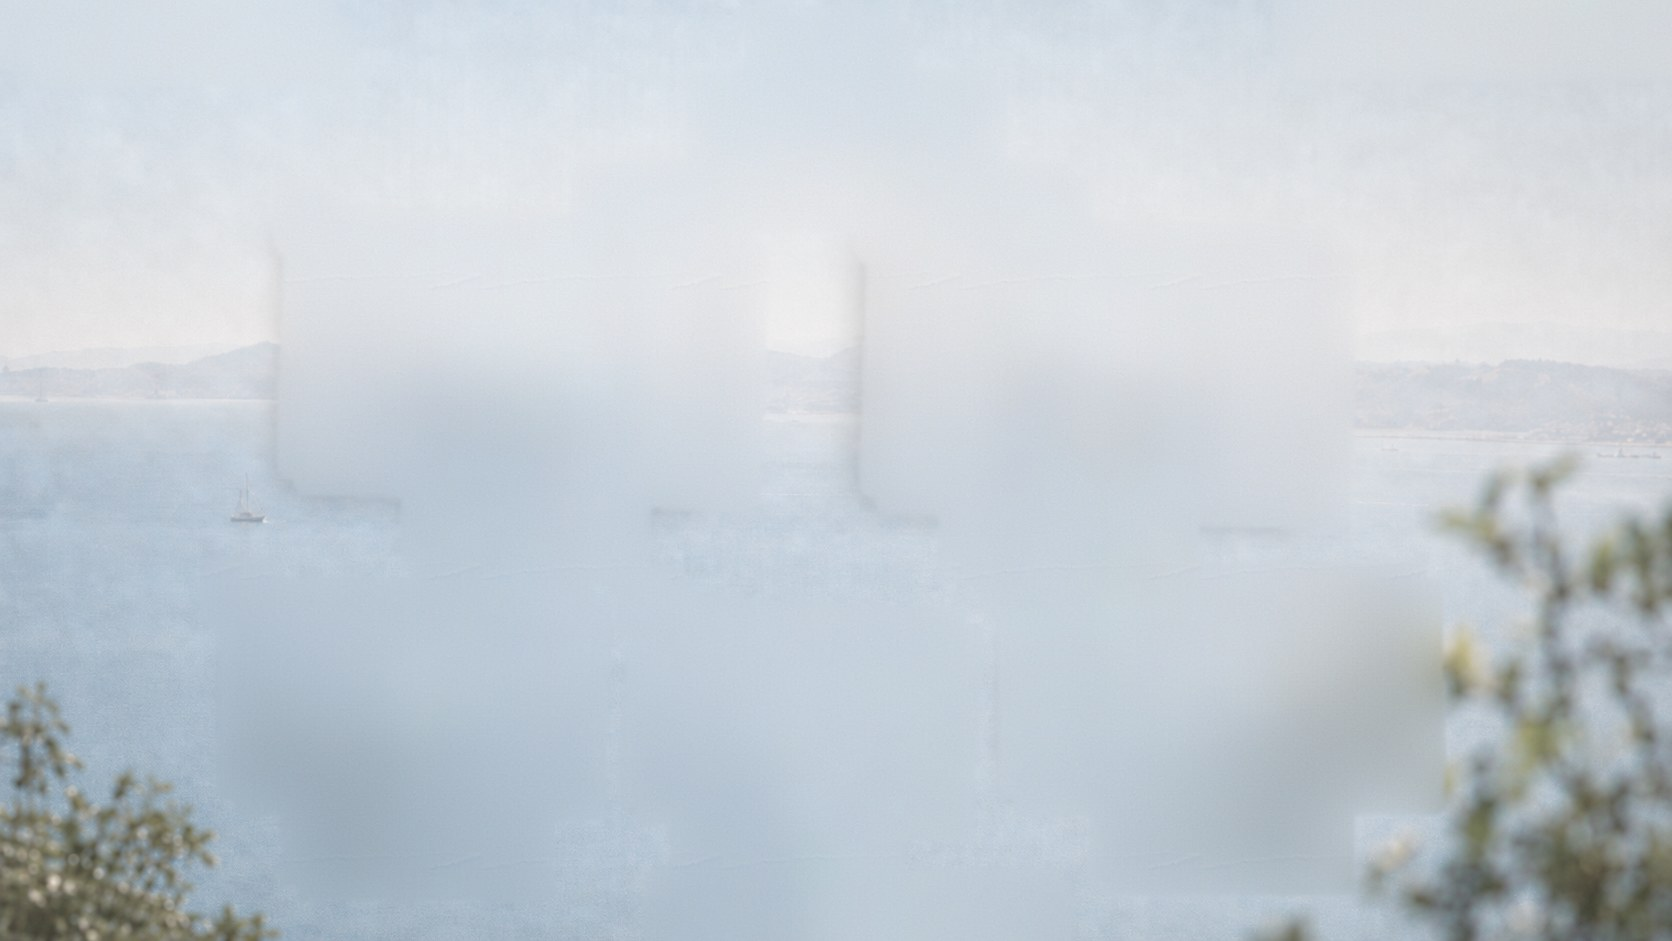
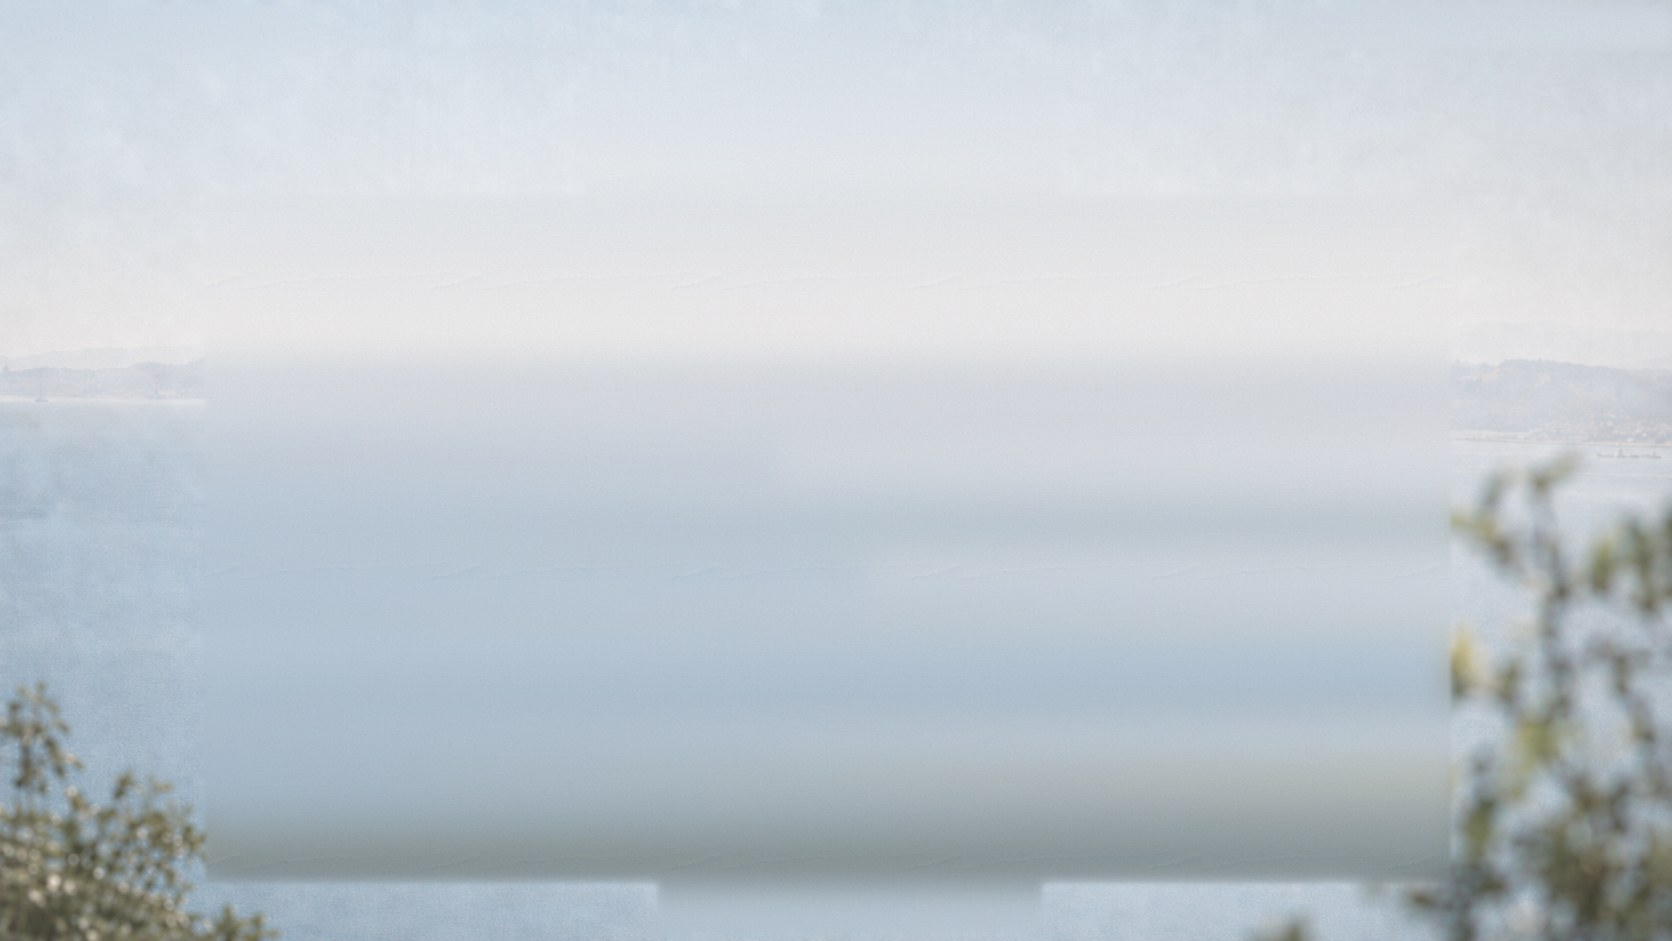
Erase the baked card glow entirely; cards carry only a slight shadow
Per-card erasing left stripes of the reference's original glow between
the inpainted zones, reading as translucent borders around every card.
The plate now clears one continuous band across the whole card field
and refills it row by row from the true scene edges (foliage guarded
so it can't bleed into the bay), with the page's own grain on top —
one uniform haze, no patchwork. Card and label shadows lightened to a
subtle lift.

Claude-Session: https://claude.ai/code/session_01HwHnB6ZvdvjAvLg4jAqUHh

Changed region(s): [[0.1244, 0.8013, 0.8708, 0.9554], [0.8397, 0.678, 0.8708, 0.7396], [0.6842, 0.7088, 0.7464, 0.7396]]

diff --git a/index.html b/index.html
@@ -151,7 +151,7 @@ nav,nav a,nav .mono img{transition:color .35s ease,filter .35s ease}
   transform-origin:center center;z-index:1}
 .wk{position:absolute}
 .wk>img{width:100%;height:100%;display:block}
-.wk-card img{filter:drop-shadow(0 10px 18px rgba(50,60,80,.32))}
+.wk-card img{filter:drop-shadow(0 6px 12px rgba(50,60,80,.25))}
 .wk-card a,.wk-label a{position:absolute;inset:0;display:block;color:inherit;text-decoration:none}
 @media (prefers-reduced-motion:no-preference){
   .wk-card a,.wk-label a{transition:transform .3s cubic-bezier(.3,.8,.3,1)}
@@ -159,7 +159,7 @@ nav,nav a,nav .mono img{transition:color .35s ease,filter .35s ease}
   .wk-label a:hover,.wk-label a:focus-visible{transform:translateY(-3px)}
 }
 .wk-pin img{filter:drop-shadow(0 3px 4px rgba(40,50,70,.4))}
-.wk-label{filter:drop-shadow(0 6px 10px rgba(50,60,80,.30))}
+.wk-label{filter:drop-shadow(0 4px 8px rgba(50,60,80,.24))}
 .wk-label .paper{position:absolute;inset:0;width:100%;height:100%}
 .wk-label .lt{position:relative;text-align:center;
   font-family:Georgia,"Times New Roman",serif;color:#2c4e7b;
